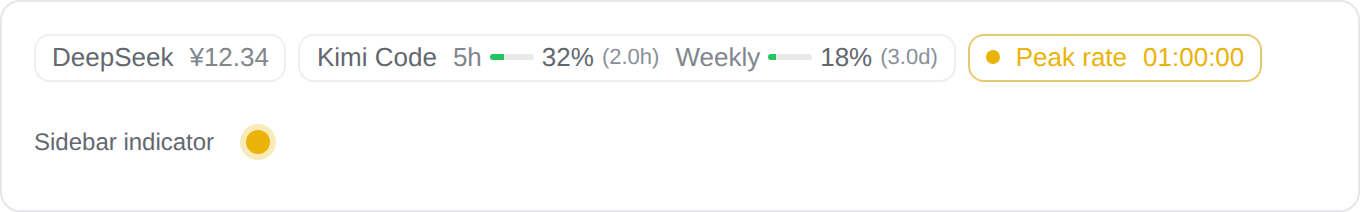
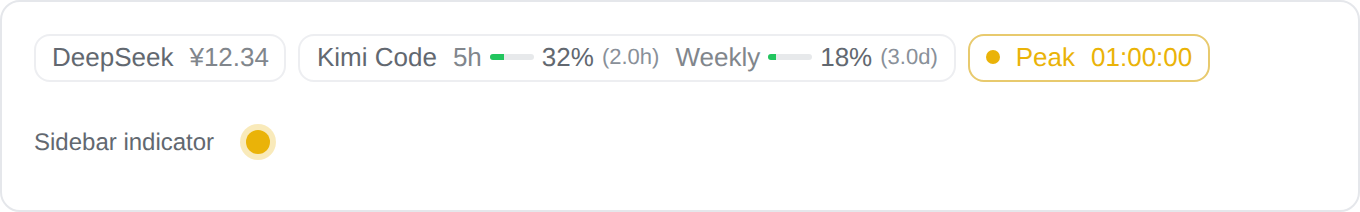
fix(header): drop the rate suffix from the peak indicator

Changed region(s): [[0.7721, 0.2264, 0.9265, 0.3113], [0.8647, 0.3679, 0.9265, 0.3962], [0.8647, 0.1415, 0.9265, 0.1698]]

diff --git a/tests/client-lifecycle.test.js b/tests/client-lifecycle.test.js
@@ -1384,7 +1384,7 @@ test('DeepSeek peak clock ticks locally, stops while hidden and cleans up on unm
   assert.deepEqual(h.requests.map(r => r.url), ['/statusline/api/peak-schedule'], 'only the once-per-page schedule load')
   h.advance(1000); h.tick()
   chip = h.renderComponent(h.DeepseekPeakChip)
-  assert.match(textContent(chip), /Peak rate.*03:00:00/)
+  assert.match(textContent(chip), /^Peak.*03:00:00/)
   h.setVisible(false)
   assert.equal(h.renderComponent(h.DeepseekPeakChip), null)
   assert.equal(h.timers.size, 0)
@@ -1397,7 +1397,7 @@ test('DeepSeek peak clock ticks locally, stops while hidden and cleans up on unm
 })
 
 test('footer dot shows peak state without a session, with countdown tooltip and an upward panel', () => {
-  for (const [at, tone, word] of [['2026-10-08T02:00:00Z', 'peak', /Peak rate · Off-peak in 02:00:00/], ['2026-10-10T02:00:00Z', 'off', /Off-peak · Peak in/], ['2027-03-03T02:00:00Z', 'unknown', /Schedule unknown/]]) {
+  for (const [at, tone, word] of [['2026-10-08T02:00:00Z', 'peak', /Peak · Off-peak in 02:00:00/], ['2026-10-10T02:00:00Z', 'off', /Off-peak · Peak in/], ['2027-03-03T02:00:00Z', 'unknown', /Schedule unknown/]]) {
     const h = harness({ wallTime: Date.parse(at) })
     h.setConfig({ ...config })
     h.renderComponent(h.PeakFooterDot)
@@ -1488,7 +1488,7 @@ test('disabled or hidden peak indicators start no timers and countdown preferenc
   }
   const h = harness({ wallTime: Date.parse('2026-10-08T02:00:00Z') })
   let chip = h.renderComponent(h.DeepseekPeakChip, { countdown: false })
-  assert.match(textContent(chip), /Peak rate/)
+  assert.match(textContent(chip), /^Peak$/)
   assert.doesNotMatch(textContent(chip), /02:00:00/)
   const button = descendants(chip, node => node.type === 'button')[0]
   assert.doesNotMatch(button.props.title, /Off-peak in/)

diff --git a/lib/client.js b/lib/client.js
@@ -292,7 +292,7 @@ window.__ModuleLoader__.load({
         providerGranted: '赠送余额 {v}', providerToppedUp: '充值余额 {v}',
         providerUnavailable: '账号当前不可用', providerAvailable: '账号可用',
         providerWindowTitle: '{label}: {v}', providerResetTitle: '重置剩余 {r}',
-        peakStatus: '高峰价', offPeakStatus: '平峰', peakUnknown: '时段未核实',
+        peakStatus: '高峰', offPeakStatus: '平峰', peakUnknown: '时段未核实',
         peakToOff: '距平峰', peakToPeak: '距高峰', peakTitle: 'DeepSeek 官方峰/平峰时段',
         peakRule: '北京时间周一至周五（法定节假日除外）09:00–12:00、14:00–18:00 为高峰；其他时间、周末与节假日全天为平峰，平峰价格为高峰的一半。',
         peakCalendarUnknown: '节假日日历尚未覆盖该年份，下一次高峰时间未确认。',
@@ -418,7 +418,7 @@ window.__ModuleLoader__.load({
         providerGranted: 'granted balance {v}', providerToppedUp: 'topped-up balance {v}',
         providerUnavailable: 'account currently unavailable', providerAvailable: 'account available',
         providerWindowTitle: '{label}: {v}', providerResetTitle: 'resets in {r}',
-        peakStatus: 'Peak rate', offPeakStatus: 'Off-peak', peakUnknown: 'Schedule unknown',
+        peakStatus: 'Peak', offPeakStatus: 'Off-peak', peakUnknown: 'Schedule unknown',
         peakToOff: 'Off-peak in', peakToPeak: 'Peak in', peakTitle: 'DeepSeek peak / off-peak schedule',
         peakRule: 'Beijing time: Mon–Fri (excluding Chinese public holidays), 09:00–12:00 and 14:00–18:00 are peak windows. All other hours, weekends and holidays are off-peak at half the peak price.',
         peakCalendarUnknown: 'Holiday calendar does not cover this year; the next peak time is unconfirmed.',

diff --git a/CHANGELOG.md b/CHANGELOG.md
@@ -1,5 +1,10 @@
 # Release notes
 
+## Unreleased
+
+- Settings edits auto-save again on current DSH: the write precondition no longer requires the config form's removed `mode` field, so a change is accepted instead of failing with "Settings are not writable on this connection".
+- The header peak indicator reads "Peak" / "Off-peak" without the "rate" suffix. The switch countdown remains a separate setting.
+
 ## 0.1.8
 
 - A model's header quota chip no longer switches to another subscription kind. If the model's own subscription has no usable data (`no-credential`, `auth`, `invalid-response`, `not-found`), the chip shows "Subscription not found" and keeps the short reason in the tooltip; a Gemini model can no longer display Codex quota. Transient failures still retry the same subscription.
